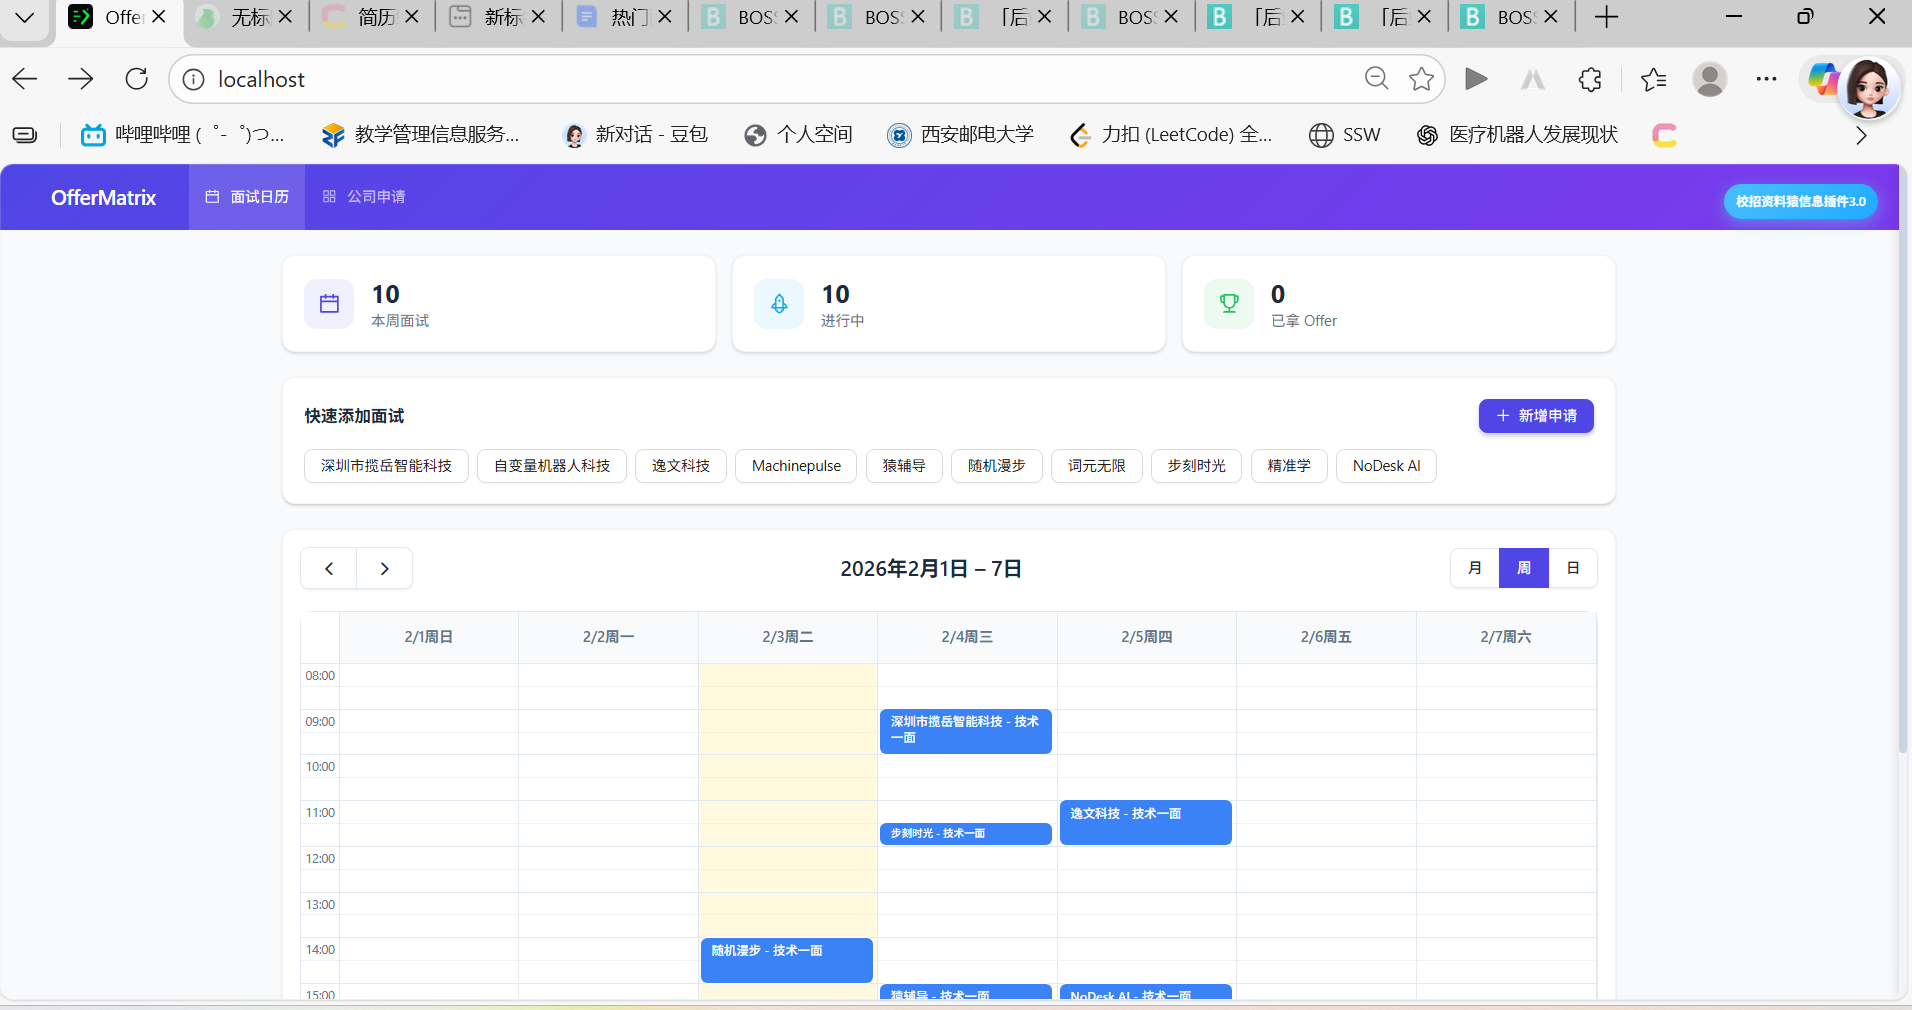
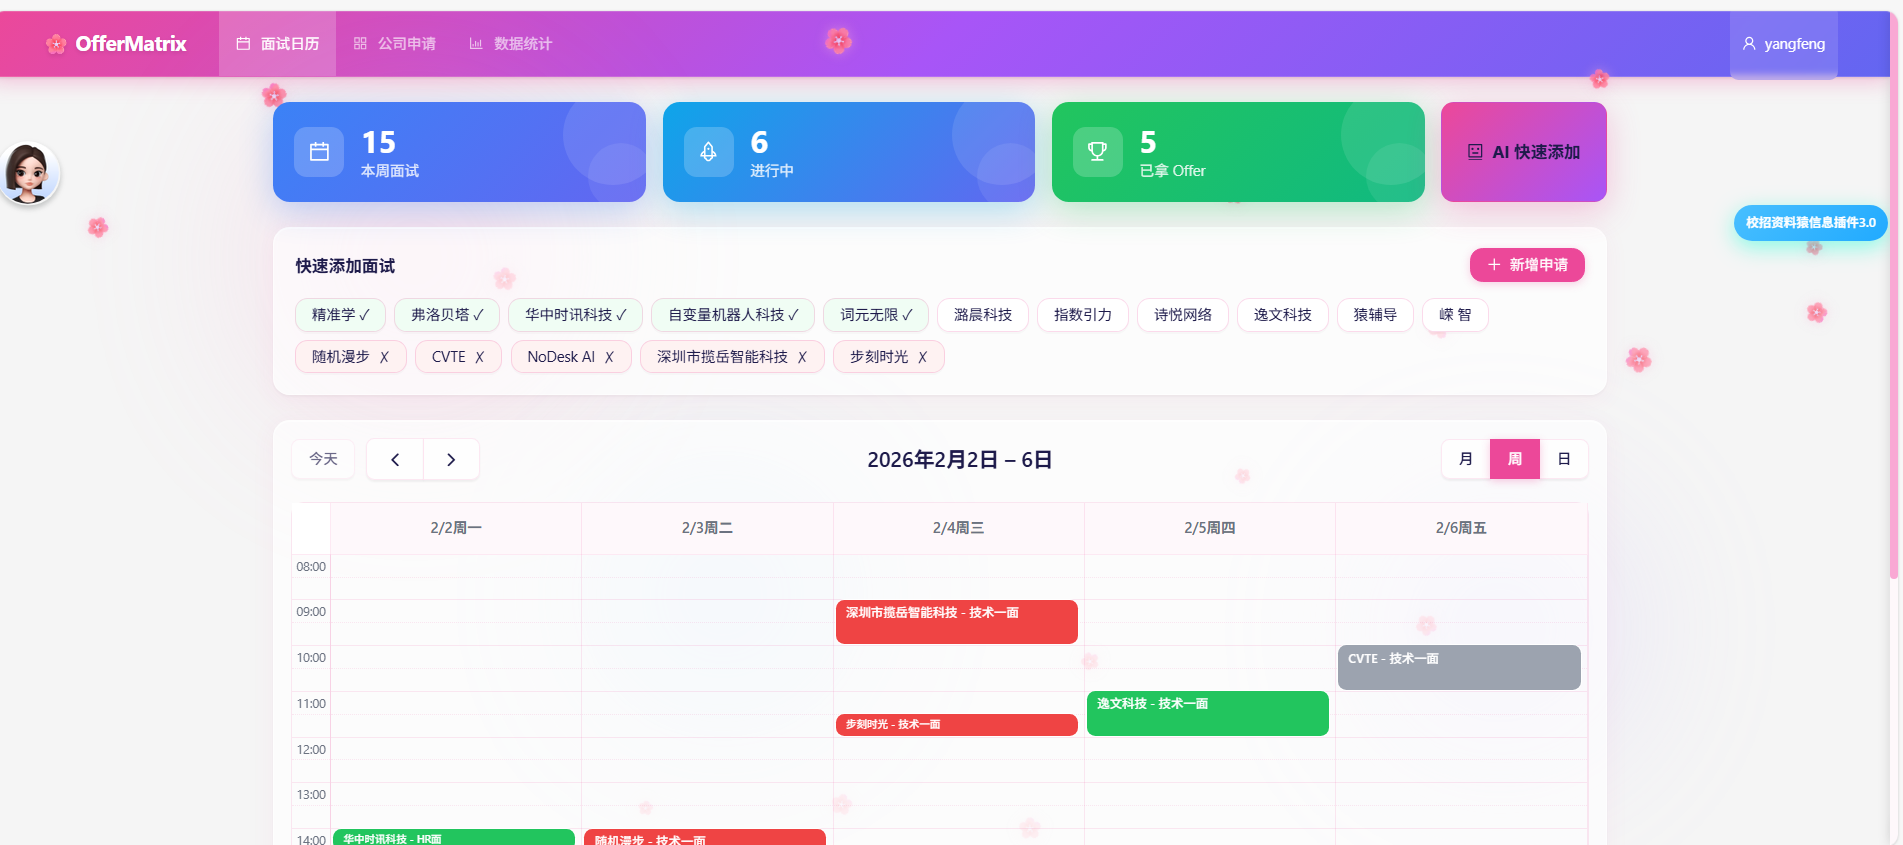
docs: 更新截图 + 优化 README
- 替换全部 5 张截图为樱花粉新版 UI
- README 头部居中排版，添加 badge 徽章
- 截图展示改为大图 + 折叠详情
- 修正技术栈版本号 (React 19, Vite 7, Ant Design 6, TailwindCSS 4)
- Roadmap 添加视觉升级已完成项
- 删除未使用的 login.png

diff --git a/README.md b/README.md
@@ -1,8 +1,19 @@
-# OfferMatrix
+<div align="center">
 
-> 求职季的你，是不是也曾在 Excel 里疯狂记录面试时间，然后还是忘了明天有场面试？
+# 🌸 OfferMatrix
 
-**OfferMatrix** 是一个面试管理神器，让你告别混乱的求职流程。粉色樱花主题，颜值与实用并存。
+**面试管理神器 · 樱花粉主题 · 颜值与实用并存**
+
+求职季的你，是不是也曾在 Excel 里疯狂记录面试时间，然后还是忘了明天有场面试？
+
+[![License: MIT](https://img.shields.io/badge/License-MIT-ec4899.svg)](LICENSE)
+[![Go](https://img.shields.io/badge/Go-1.23-00ADD8.svg)](https://go.dev/)
+[![React](https://img.shields.io/badge/React-19-61DAFB.svg)](https://react.dev/)
+[![Docker](https://img.shields.io/badge/Docker-Compose-2496ED.svg)](https://docs.docker.com/compose/)
+
+</div>
+
+---
 
 ## 为什么需要它？
 
@@ -14,32 +25,42 @@
 
 **OfferMatrix 帮你搞定这一切：**
 
-- **一眼看清本周所有面试** - 周历视图，再也不会撞车
-- **追踪每家公司进度** - 进行中 / Offer / 挂了，状态一目了然
-- **AI 智能解析** - 粘贴面试通知，自动提取公司、时间、会议链接
-- **面试复盘** - 记录问题和反思，同样的坑不踩两次
-- **数据统计** - Offer 率、面试趋势、轮次分布，用数据复盘求职季
+- **一眼看清本周所有面试** — 周历视图，再也不会撞车
+- **追踪每家公司进度** — 进行中 / Offer / 挂了，状态一目了然
+- **AI 智能解析** — 粘贴面试通知，自动提取公司、时间、会议链接
+- **面试复盘** — 记录问题和反思，同样的坑不踩两次
+- **数据统计** — Offer 率、面试趋势、轮次分布，用数据复盘求职季
 
-## 截图
+## 截图预览
 
-| 面试日历 | 公司列表 |
-|---------|---------|
-| ![日历](docs/images/dashboard.png) | ![列表](docs/images/applications.png) |
+<div align="center">
+
+### 面试日历
+![面试日历](docs/images/dashboard.png)
+
+### 公司申请
+![公司申请](docs/images/applications.png)
+
+### 数据统计
+![数据统计](docs/images/statistics.png)
+
+</div>
+
+<details>
+<summary>更多截图</summary>
 
 | 面试详情 | 面试复盘 |
 |---------|---------|
 | ![详情](docs/images/interview-detail.png) | ![复盘](docs/images/interview-review.png) |
 
-| 数据统计 |
-|---------|
-| ![统计](docs/images/statistics.png) |
+</details>
 
 ## 功能亮点
 
 ### 可视化周历
 - 拖拽调整面试时间，比 Google Calendar 更专注
 - 智能颜色标记：待面试蓝色、过期橙色、Offer 绿色、挂了红色
-- 乐观更新，拖拽即时响应
+- 毛玻璃卡片 + 渐变统计面板，樱花飘落动画背景
 
 ### AI 智能添加
 - 粘贴面试邀请邮件或消息，AI 自动解析
@@ -50,7 +71,6 @@
 - 追踪每家公司的申请状态和面试进度
 - 快速添加面试，一键为进行中的公司安排下一轮
 - 状态筛选：按进行中 / Offer / 已挂过滤查看
-- 支持更新公司状态
 
 ### 面试复盘
 - 记录每场面试的问题和你的回答
@@ -58,15 +78,14 @@
 
 ### 数据统计
 - **核心指标**：总面试数、Offer 率、复盘完成率
-- **趋势分析**：按周/月查看面试数量变化
-- **分布图表**：公司状态分布、面试轮次分布
-- **有趣数据**：单日最多面试记录
+- **趋势分析**：按周/月查看面试数量变化（渐变面积图）
+- **分布图表**：公司状态分布（环形图）、面试轮次分布（柱状图）
 
 ## 技术栈
 
 ```
-前端: React 18 + TypeScript + Vite + Ant Design + FullCalendar + Recharts + TailwindCSS
-后端: Go + Gin + GORM + JWT
+前端: React 19 + TypeScript + Vite 7 + Ant Design 6 + FullCalendar + Recharts + TailwindCSS 4
+后端: Go 1.23 + Gin + GORM + JWT
 数据库: MySQL 8
 部署: Docker Compose 一键启动
 AI: OpenAI 兼容接口（可配置）
@@ -81,11 +100,10 @@ cd OfferMatrix
 
 # 配置
 cp backend/config.docker.example.yaml backend/config.docker.yaml
-# 编辑 config.docker.yaml 设置密码
+# 编辑 config.docker.yaml 设置数据库密码
 
 # 启动（需要 Docker）
-export MYSQL_ROOT_PASSWORD=your_password
-docker-compose up -d --build
+docker compose up -d --build
 
 # 访问 http://localhost 开始使用
 ```
@@ -104,6 +122,7 @@ CREATE DATABASE offermatrix;
 ```bash
 cd backend
 cp config.example.yaml config.yaml
+# 编辑 config.yaml 设置本地数据库连接
 go run cmd/server/main.go
 # 运行在 http://localhost:8080
 ```
@@ -130,6 +149,7 @@ OfferMatrix/
 │       ├── components/     # 可复用组件
 │       ├── pages/          # 页面（Dashboard/Applications/Statistics）
 │       └── services/       # API 封装
+├── database/               # SQL 脚本
 └── docker-compose.yml      # 一键部署
 ```
 
@@ -141,6 +161,7 @@ OfferMatrix/
 - [x] 数据统计
 - [x] AI 智能解析面试通知
 - [x] 状态筛选过滤
+- [x] 樱花粉主题 + 毛玻璃视觉升级
 - [ ] 面试提醒（邮件/微信通知）
 - [ ] 导出面试记录（PDF/Excel）
 - [ ] 多用户协作
@@ -151,4 +172,8 @@ MIT
 
 ---
 
-**祝你 Offer 拿到手软！**
+<div align="center">
+
+**祝你 Offer 拿到手软！** 🌸
+
+</div>
